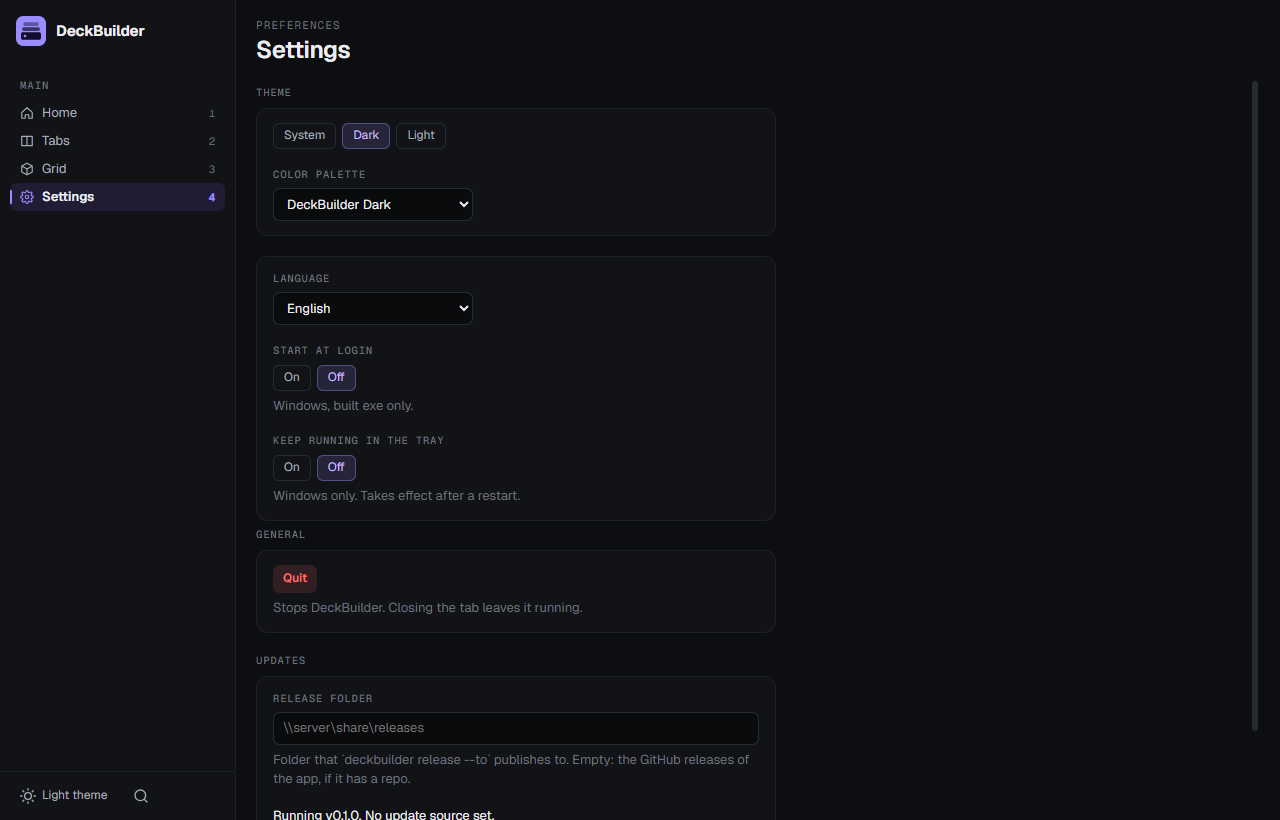
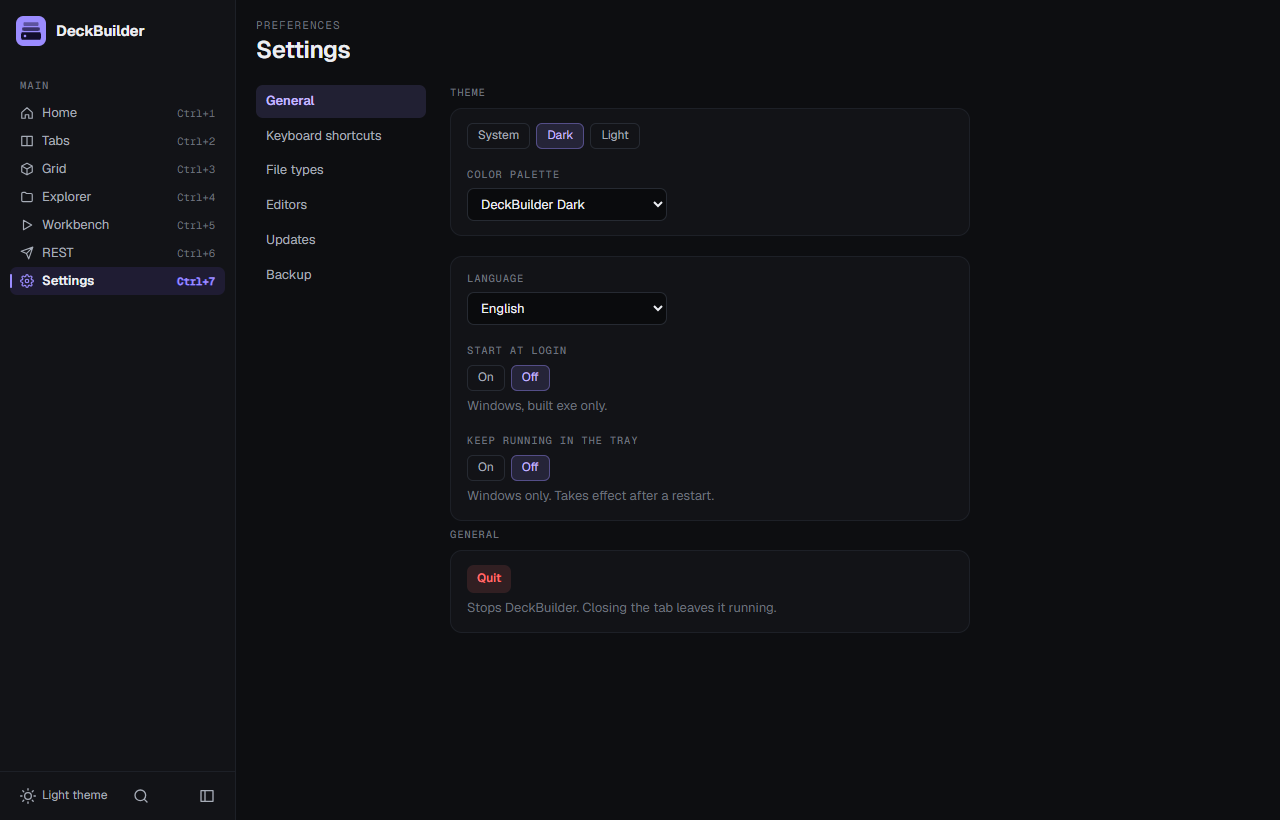
Update README screenshots and document file viewers and associations

diff --git a/README.md b/README.md
@@ -24,7 +24,7 @@ library inside), and Windows, Linux and macOS executables can all be built from 
 ![Workbench](docs/workbench.png)
 ![REST](docs/rest.png)
 
-The Electron version of this project is in the git history (commit `559a1a5`); see
+The Electron version of this project is in the git history (commit `585c282`); see
 `docs/shell-decision.md` for why webview-bun replaced it.
 
 ## Requirements
@@ -202,13 +202,21 @@ source directly; there is no package build step.
   build exports.
 - **Editor and viewers**: add `@deckbuilder/editor` to the app. `CodeEditor` (Ctrl+Enter runs
   `onRun`), `CodeView`, `MarkdownView`, `JsonTree` (from `@deckbuilder/ui`) and `FilePreview`
-  (picks a viewer by file name). `MarkdownEditor` (`value`, `onChange`, `mode`: `'live' | 'edit' | 'split' |
+  (picks a viewer by file name: markdown, JSON tree, log, highlighted code, CSV/TSV table,
+  Jupyter notebook, HAR, `.env`, image, SVG, audio/video, PDF, archive, SQLite, font, else hex
+  for binaries; PDF, SVG and font viewers load lazily). The gallery's `FileTab.tsx` shows how
+  each kind gets its content from `/api/fs/*`. `MarkdownEditor` (`value`, `onChange`, `mode`: `'live' | 'edit' | 'split' |
   'preview'`, `onModeChange`, `resolveImage?`) edits markdown in place (`live`: formatted inline, raw syntax
   only on the cursor's lines) or as source (`edit`), source + preview (`split`) or preview only,
   with a mode switch; in `split` the preview follows the editor's scroll proportionally and
   renders a deferred copy of the text, so typing stays smooth; `wrap` (default on) wraps long lines,
   like `CodeEditor`'s `wrap` (default off). Keep the mode in a setting. It brings the CodeMirror language parsers (~700 kB): load the
-  screen with `React.lazy` and set `chunkSizeWarningLimit: 800` in `vite.config.ts`, as the gallery does.
+  screen with `React.lazy` and set `chunkSizeWarningLimit: 900` in `vite.config.ts`, as the gallery does.
+- **File associations**: `setFileAssociations(list)` (from `@deckbuilder/ui`) makes files whose
+  name matches a glob (`*`, `?`, case-insensitive) open and get icons as another extension, e.g.
+  `{ pattern: '*.out', as: 'log' }`; `effectiveName(name)` applies it. Keep the list in a setting
+  validated with `validFileAssociations` (`@deckbuilder/ui/file-associations`). The gallery's
+  Settings screen has a File types section.
 - **Streaming**: `ndjson(req, async (emit, signal) => ...)` in a route streams items without
   buffering; `useStream().start(path, params)` reads them into state (`cancel()` aborts) and
   `<OutputPanel lines />` shows log lines. See `GET /api/demo/rows` and the Workbench screen.
@@ -234,7 +242,8 @@ source directly; there is no package build step.
   import is a route that shows `pickFile` on the server and returns only `{ name, text }`, never
   the path (`POST /api/requests/import-file`, 1 MB at most); the client parses and saves.
 - **Rooted file system**: `rootedFs({ roots })` serves `/api/fs/*` (list, read, write, create,
-  rename, move, delete, search). Requests carry a root id and a relative path, never an absolute
+  rename, move, delete, search; `raw` for binary content, with `limit=<bytes>` for the first
+  bytes only; `sqlite` for a read-only page of 200 rows of a table). Requests carry a root id and a relative path, never an absolute
   path; deletes go to the recycle bin and a root can be `readOnly`. A link is never followed out
   of its root, but a path swapped between the check and the use (TOCTOU) is not guarded against.
 - **Secrets**: `secretStore(appId)` (from `@deckbuilder/platform`) encrypts values with the Windows
@@ -432,7 +441,8 @@ never appears in a URL, because URLs land in browser history, command lines and 
   (`127.0.0.1`, `localhost` or `[::1]` on its port; in `--dev` also Vite's), else 403. Requests
   whose `Host` header is not a loopback name are rejected, which blocks DNS rebinding.
 - **CSP**: `index.html` is served with a Content-Security-Policy that allows scripts, fonts and
-  API calls from the app only, inline styles, and images from the app or `data:`/`blob:` URLs.
+  API calls from the app only, inline styles, images from the app or `data:`/`blob:` URLs, and
+  audio/video from the app or `blob:` URLs.
   Every static file gets `X-Content-Type-Options: nosniff` and `Referrer-Policy: no-referrer`.
 - **HTTP executor**: sends only the headers the user set, never the session token, and accepts
   only http/https URLs.
